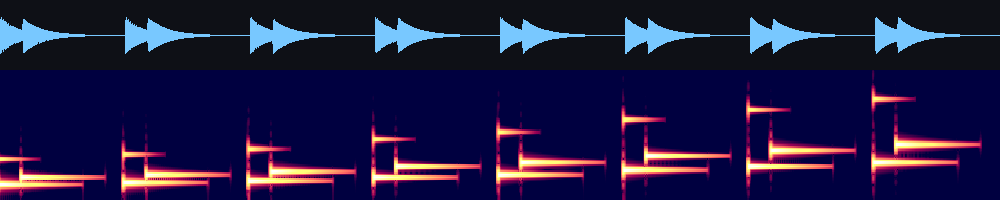
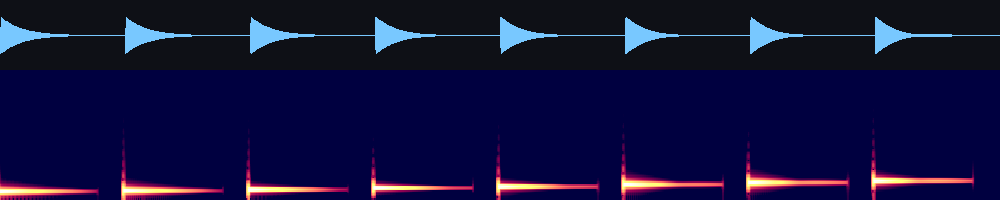
feat(audio): ladder root 440 Hz per cue research, cheaper sine synthesis, docs

diff --git a/src/audio/cues.ts b/src/audio/cues.ts
@@ -22,26 +22,27 @@ function hashId(id: string): number {
 
 const hzAt = (rootHz: number, semitones: number): number => rootHz * Math.pow(2, semitones / 12);
 
-/** Kill chime for a ladder step: root note, then a fifth above (a rising resolve), bell-ish partial on top. */
+/**
+ * Kill chime for a ladder step: a sine note with a slightly detuned twin for a bell-like shimmer.
+ * The whole ladder (root 440 Hz, top step about 1.1 kHz) stays below the headshot tink (1.9 kHz),
+ * so a high kill never sounds like a headshot (docs/research/cues.md section 3.4).
+ */
 export function killLayers(step: number, t: AudioTunables): Layer[] {
-  const { rootHz, semitones, resolveMs, noteMs } = t.ladder;
+  const { rootHz, semitones, noteMs } = t.ladder;
   const f0 = hzAt(rootHz, semitones[step - 1]!);
-  const f1 = f0 * Math.pow(2, 7 / 12);
   return [
     { kind: 'tone', wave: 'sine', startMs: 0, durMs: noteMs, hz: f0, attackMs: 1.5, gain: 1.0 },
-    { kind: 'tone', wave: 'sine', startMs: 0, durMs: noteMs * 0.5, hz: f0 * 2.76, attackMs: 1, gain: 0.18 },
-    { kind: 'tone', wave: 'sine', startMs: resolveMs, durMs: noteMs, hz: f1, attackMs: 1.5, gain: 0.85 },
+    { kind: 'tone', wave: 'sine', startMs: 0, durMs: noteMs, hz: f0 * t.ladder.shimmer, attackMs: 1.5, gain: 0.55 },
   ];
 }
 
-/** Headshot-kill top layer: a short octave-up sparkle (two detuned partials two octaves above the step note). */
+/** Headshot-kill top layer: a short octave-up sparkle (two detuned triangles an octave above the step note). */
 export function sparkleLayers(step: number, t: AudioTunables): Layer[] {
-  const { rootHz, semitones, sparkleMs, resolveMs } = t.ladder;
+  const { rootHz, semitones, sparkleMs } = t.ladder;
   const f = hzAt(rootHz, semitones[step - 1]!) * 2;
   return [
     { kind: 'tone', wave: 'triangle', startMs: 0, durMs: sparkleMs, hz: f, attackMs: 0.8, gain: 1.0 },
     { kind: 'tone', wave: 'triangle', startMs: 0, durMs: sparkleMs, hz: f * 1.006, attackMs: 0.8, gain: 0.7 },
-    { kind: 'tone', wave: 'sine', startMs: resolveMs, durMs: sparkleMs, hz: f * 1.5, attackMs: 0.8, gain: 0.5 },
   ];
 }
 

diff --git a/src/audio/dsp.ts b/src/audio/dsp.ts
@@ -82,22 +82,38 @@ function addTone(out: Float32Array, sr: number, l: ToneLayer, k: number): void {
   const start = Math.round((l.startMs / 1000) * sr);
   const n = Math.round((l.durMs / 1000) * sr);
   const attackN = Math.round((l.attackMs / 1000) * sr);
-  // Exponential sweep as a per-sample multiplier (no pow per sample).
-  const step = l.endHz === undefined ? 1 : Math.pow(l.endHz / l.hz, 1 / n);
   const decay = Math.exp(-k / n); // per-sample multiplier: the envelope falls `decayDb` over the layer
   let env = 1;
+  const last = Math.min(n, out.length - start);
+
+  if (l.wave === 'sine' && l.endHz === undefined) {
+    // Constant sine: two-term recurrence s[n+1] = 2cos(w) s[n] - s[n-1] (no trig per sample).
+    const w = (2 * Math.PI * l.hz) / sr;
+    const c = 2 * Math.cos(w);
+    let s1 = 0;
+    let s0 = -Math.sin(w);
+    for (let i = 0; i < last; i++) {
+      const s = c * s1 - s0;
+      s0 = s1;
+      s1 = s;
+      out[start + i] += l.gain * attackGain(i, attackN) * env * s;
+      env *= decay;
+    }
+    return;
+  }
+
+  // Exponential sweep as a per-sample multiplier (no pow per sample).
+  const step = l.endHz === undefined ? 1 : Math.pow(l.endHz / l.hz, 1 / n);
   let hz = l.hz;
   let phase = 0;
-  for (let i = 0; i < n; i++) {
-    const idx = start + i;
-    if (idx >= out.length) break;
+  for (let i = 0; i < last; i++) {
     hz *= step;
     phase += hz / sr;
     phase -= Math.floor(phase);
     const w = l.wave === 'sine'
       ? Math.sin(2 * Math.PI * phase)
       : 4 * Math.abs(phase - 0.5) - 1; // triangle
-    out[idx] += l.gain * attackGain(i, attackN) * env * w;
+    out[start + i] += l.gain * attackGain(i, attackN) * env * w;
     env *= decay;
   }
 }

diff --git a/src/config/audio.ts b/src/config/audio.ts
@@ -181,9 +181,10 @@ export interface LadderTunables {
   rootHz: number;
   /** Semitone offsets from the root, one per step (length = max step). */
   semitones: readonly number[];
-  /** The chime resolves up a fifth this many ms after the first note. */
-  resolveMs: number;
+  /** Length of each chime note. */
   noteMs: number;
+  /** Frequency ratio of the detuned twin partial that gives the chime its shimmer. */
+  shimmer: number;
   /** Octave sparkle (headshot kills): ms of a short high partial layered on top. */
   sparkleMs: number;
   peakDb: number;
@@ -216,10 +217,10 @@ export interface AudioTunables {
 export const audio: AudioTunables = {
   masterGain: 0.5,
   ladder: {
-    rootHz: 880,
+    rootHz: 440,
     semitones: [0, 2, 4, 7, 9, 12, 14, 16],
-    resolveMs: 45,
-    noteMs: 170,
+    noteMs: 200,
+    shimmer: 1.005,
     sparkleMs: 90,
     peakDb: -12,
     sparklePeakDb: -18,

diff --git a/src/audio/soundSet.test.ts b/src/audio/soundSet.test.ts
@@ -62,6 +62,14 @@ describe('sound set', () => {
     }
   });
 
+  it('keeps every kill chime below the headshot tink band so a high kill never sounds like a headshot', () => {
+    for (const v of set.kill.variants) {
+      expect(dominantHz(v, SR)).toBeLessThan(1500);
+      expect(energyAbove(v, SR, 1500)).toBeLessThan(0.03);
+    }
+    expect(dominantHz(set.kill.variants[0]!, SR)).toBeGreaterThan(400);
+  });
+
   it('moving-shot tock is flat, low and has no energy where the headshot lives', () => {
     expect(energyAbove(one('movingShot'), SR, 1500)).toBeLessThan(0.05);
     expect(dominantHz(one('movingShot'), SR)).toBeLessThan(250);

diff --git a/src/app/game.ts b/src/app/game.ts
@@ -87,7 +87,7 @@ export class Game {
 
     this.audio = new AudioEngine(this.tunables.audio);
     this.applyAudioSettings(s);
-    // Producers of feedback events (streaks) must subscribe before attachSfx so the kill chime sees the new streak.
+    // Feedback producers (stats, later streaks) subscribe before presentation (attachSfx), so the kill chime reads the updated streak.
     this.session.attach(this.bus);
     attachSfx(this.bus, this.audio, this.tunables.audio);
     attachUiSounds(document, this.audio);

diff --git a/src/debug/hook.ts b/src/debug/hook.ts
@@ -1,6 +1,5 @@
 import type { Game } from '../app/game';
-import type { PlayLogEntry, PlayOptions } from '../audio/audioEngine';
-import type { SoundSetStats } from '../audio/audioEngine';
+import type { PlayLogEntry, PlayOptions, SoundSetStats } from '../audio/audioEngine';
 import type { CueId } from '../config/audio';
 import type { TickInput } from '../sim/types';
 

diff --git a/docs/audio.md b/docs/audio.md
@@ -4,7 +4,7 @@ Implements design section 12 (sound) for the feedback sound set, issue #20. Ever
 
 ## How it works
 
-**Rendering.** `renderSoundSet()` turns each recipe (tone and filtered-noise layers, exponential envelopes) into a mono `Float32Array`, normalised to the cue's peak target, once, when the audio context is created on the first user gesture (the Play click). The arrays are copied into `AudioBuffer`s. The synthesis is plain TypeScript rather than an `OfflineAudioContext` so the exact buffers the game plays are rendered and measured in Vitest (Node has no Web Audio); that is what makes the peak and spectrum tests run in CI. Rendering is synchronous and seeded, so output is deterministic. Measured: 29 buffers, 3.8 s of audio; 26 to 40 ms warm and 70 to 150 ms worst cold in headless Chromium on a heavily loaded shared machine (load average 60+ on 8 cores); the unit test asserts < 150 ms.
+**Rendering.** `renderSoundSet()` turns each recipe (tone and filtered-noise layers, exponential envelopes) into a mono `Float32Array`, normalised to the cue's peak target, once, when the audio context is created on the first user gesture (the Play click). The arrays are copied into `AudioBuffer`s. The synthesis is plain TypeScript rather than an `OfflineAudioContext` so the exact buffers the game plays are rendered and measured in Vitest (Node has no Web Audio); that is what makes the peak and spectrum tests run in CI. Rendering is synchronous and seeded, so output is deterministic. Measured: 29 buffers, 3.3 s of audio, no network requests. Render time in headless Chromium (software GL, a shared machine at a load average of 60 to 70 on 8 cores, so every number is inflated by roughly 8x contention): best of 12 renders 12.7 ms, typical warm 16 to 30 ms, first call at page load 50 to 200 ms depending on what else was running. The unit test asserts < 150 ms for a warm render in Node. The engine records its own render time (`__flickline.audio().stats.renderMs`).
 
 **Graph.**
 
@@ -74,8 +74,8 @@ Each image: waveform on top, spectrogram (0 to 8 kHz, 250 ms wide) below. Regene
 | `hitBody` | Thock: 60 ms sine drop 220 -> 110 Hz with a 3 ms low-passed click. Nothing above about 1 kHz. | ![](audio/hitBody.png) |
 | `hitLeg` | The same thock a semitone lower and 6 dB quieter. | ![](audio/hitLeg.png) |
 | `hitHead` | The thock plus the tink: two detuned triangles at 1.90 kHz and 1.92 kHz, 120 ms. The bright line in the spectrogram is the tink; it is the only cue with strong energy at 1.9 kHz. | ![](audio/hitHead.png) |
-| `kill` | Chime on a pentatonic ladder: a sine note, then a rising fifth 45 ms later, with a faint bell partial. 8 steps from 880 Hz (A5) at semitones 0, 2, 4, 7, 9, 12, 14, 16. See the ladder image below. | ![](audio/kill.png) |
-| `killSparkle` | Headshot-kill top layer: detuned triangles an octave above the step note and a short fifth, 135 ms. | ![](audio/killSparkle.png) |
+| `kill` | Chime on a pentatonic ladder: a 200 ms sine note with a slightly detuned twin (x1.005) for a bell-like shimmer. 8 steps from 440 Hz (A4) at semitones 0, 2, 4, 7, 9, 12, 14, 16, so the top step is 1109 Hz, below the 1.9 kHz tink. See the ladder image below. | ![](audio/kill.png) |
+| `killSparkle` | Headshot-kill top layer: two detuned triangles an octave above the step note, 90 ms. | ![](audio/killSparkle.png) |
 | `miss` | 20 ms band-passed noise "pfft" sweeping 2.3 -> 1.4 kHz, quiet, positional at the impact point. | ![](audio/miss.png) |
 | `movingShot` | Flat, low, dull "tock": 150 Hz triangle, 70 ms, a soft click, no pitch movement and no ladder. | ![](audio/movingShot.png) |
 | `streakBreak` | Falling minor third (880 -> 740 Hz), 2 x 75 ms sines, soft. | ![](audio/streakBreak.png) |
@@ -96,8 +96,8 @@ Measured (48 kHz):
 | `hitBody` | hits | 60 ms | -12.0 dBFS | 177 Hz | 176 Hz | 0.0 % |
 | `hitLeg` | hits | 60 ms | -18.0 dBFS | 167 Hz | 164 Hz | 0.0 % |
 | `hitHead` | hits | 120 ms | -12.0 dBFS | 1802 Hz | 1922 Hz | 89.8 % |
-| `kill` (step 1) | hits | 215 ms | -12.0 dBFS | 1257 Hz | 1318 Hz | 0.1 % |
-| `killSparkle` (step 1) | hits | 135 ms | -18.0 dBFS | 2575 Hz | 2643 Hz | 100.0 % |
+| `kill` (step 1) | hits | 200 ms | -12.0 dBFS | 441 Hz | 439 Hz | 0.0 % |
+| `killSparkle` (step 1) | hits | 90 ms | -18.0 dBFS | 897 Hz | 885 Hz | 0.6 % |
 | `miss` | hits | 20 ms | -26.0 dBFS | 3842 Hz | 1805 Hz | 88.2 % |
 | `movingShot` | hits | 70 ms | -20.0 dBFS | 156 Hz | 152 Hz | 0.0 % |
 | `streakBreak` | hits | 150 ms | -22.0 dBFS | 744 Hz | 738 Hz | 0.0 % |
@@ -110,6 +110,7 @@ Measured (48 kHz):
 
 * **Sample-domain synthesis instead of `OfflineAudioContext`** (issue text): see "Rendering"; same intent (rendered once at load, no network), testable in CI.
 * **Soft-limiter waveshaper instead of a compressor** as the master limiter: see "Graph".
-* **Design 12 vs cue research (`docs/cue-design.md`, #52):** the issue names design 12 for behaviour, so hits follow it (low thock, 1.9 kHz tink). The research doc proposes tonal 1.8 kHz body ticks and a 3.3 kHz headshot ping; a different balance, left for a tuning pass after play-testing. Cue-design's body-hit throttling (skip body sounds within 40 ms) and moving-shot throttling are not in design 12 and are not implemented; per-shot cues play every shot.
+* **Design 12 vs cue research (#52):** the issue names design 12 for behaviour, so hits follow it (low thock, 1.9 kHz tink). The research's body-hit throttling (skip body sounds within 40 ms) and moving-shot throttling are not in design 12 and are not implemented; per-shot cues play every shot.
+* **Ladder root 440 Hz, not 880 Hz.** The merged cue research (`docs/research/cues.md` 3.4) found that a root above about 760 Hz puts the top ladder step above the 1.9 kHz tink, so a high kill would sound like a headshot. The ladder spans 440 to 1109 Hz and a test keeps every step below 1.5 kHz. The research's other recommendations (R2: thock 260 -> 150 Hz with a 3 kHz click, tink at 3.0 kHz) contradict the numbers design 12 and this issue's spectrum criterion fix (thock 220 -> 110 Hz with no energy above 1.5 kHz, tink at 1.9 kHz), so they are left for a tuning pass after play-testing; they are one-line data edits in `config/audio.ts`.
 * **Chain chime layer, enemy tells, damage, near miss, footsteps, medal fanfare** are out of scope (#40, #41).
 * **Miss "surface type"** is not varied: the sim does not emit a surface type yet (map tags arrive with #16).
